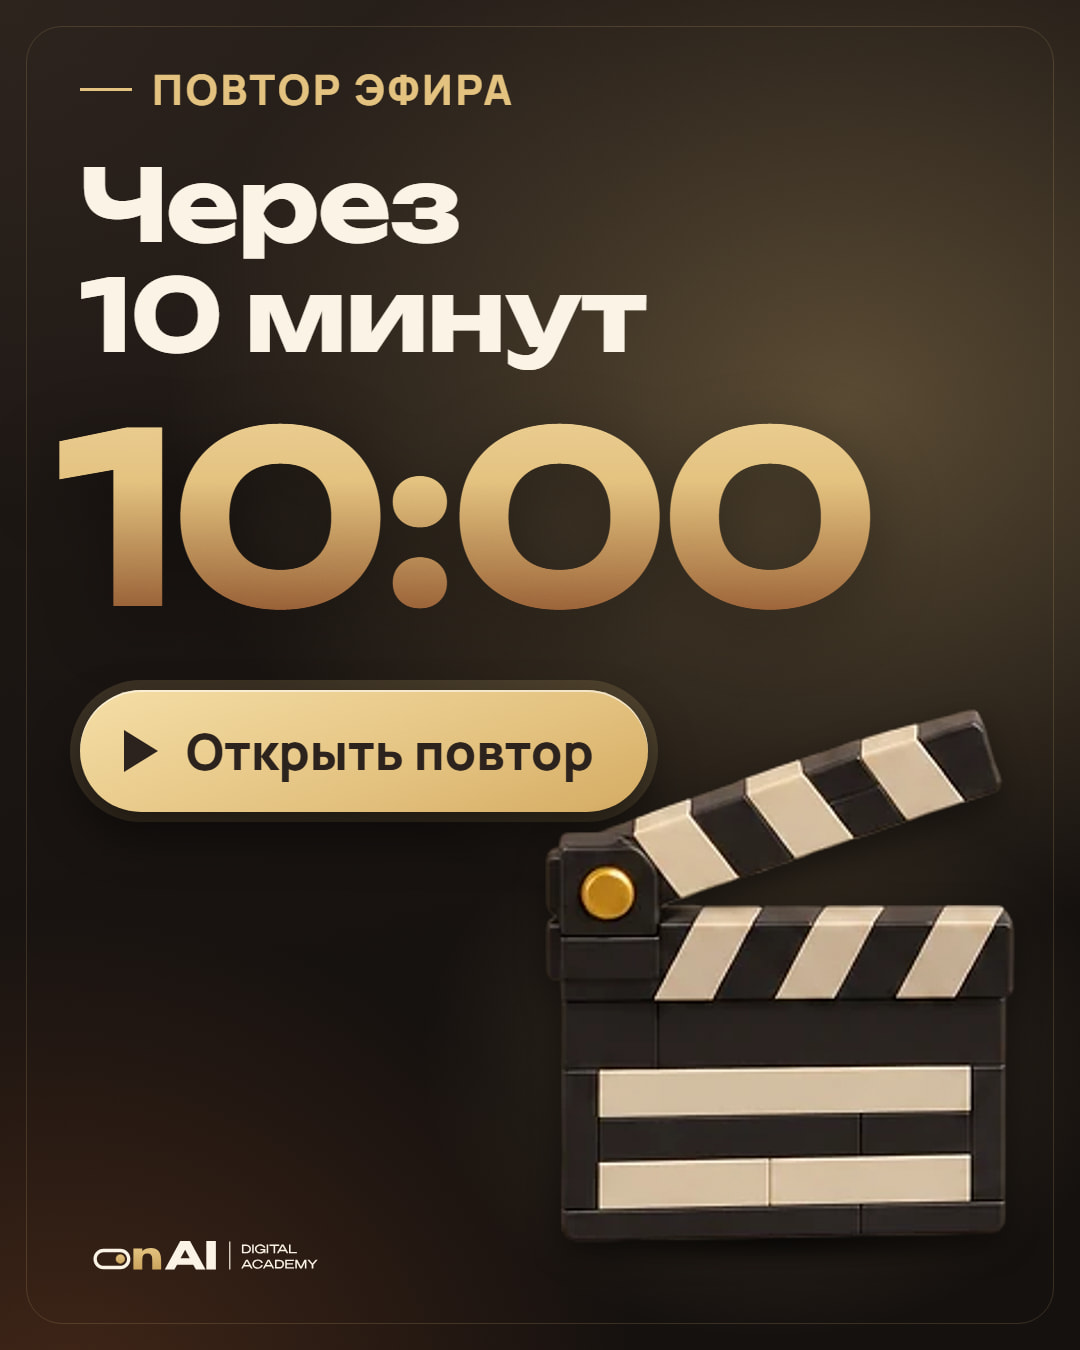
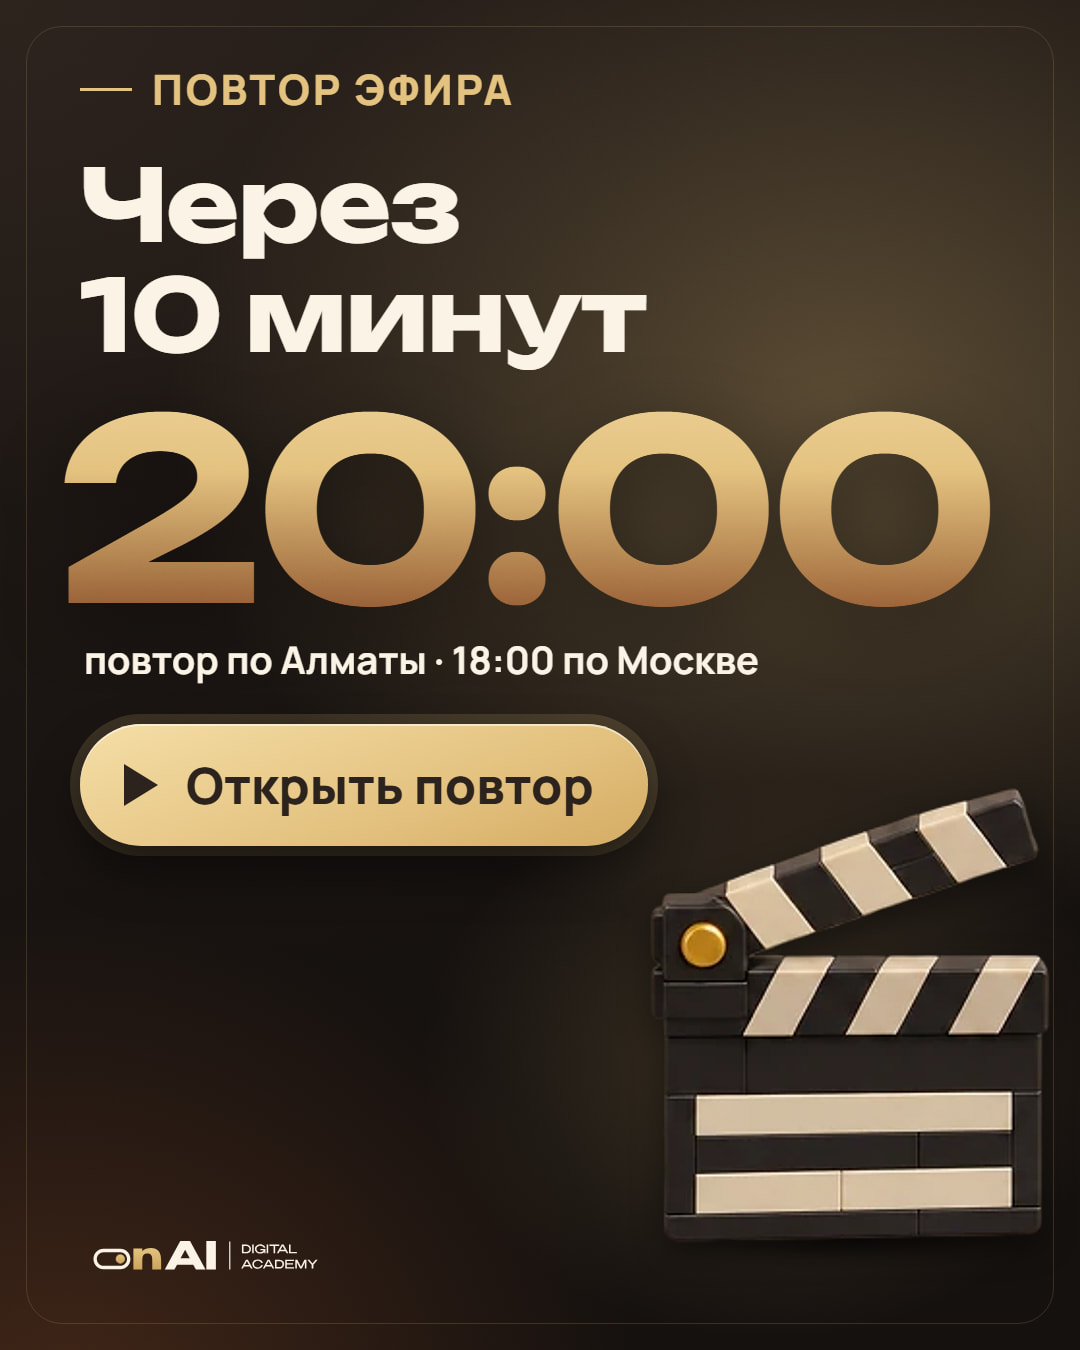
Карточки рассылки: vaib «Напиши менеджеру ВАЙБ», next-1950 «20:00», две карточки для WhatsApp, новые фото Александра
vaib: без имени менеджера, крупно ВАЙБ. next-1950: крупное 20:00 и «повтор по Алматы · 18:00 по Москве». Новые next-1030-wa (презентация и билет «Повтор 20:00») и next-2145-wa (развилка двух дорог под часами 23:59). live-now: фоном фото со сцены с микрофоном, затемнено к низу и слева. offer и next-2145: новое фото alex-2 по грудь, лаймовый логотип на футболке приглушён до золота (prep-alex.mjs). Лист превью обновлён, 22 карточки. На сервер не выложено.

Changed region(s): [[0.0306, 0.28, 0.9778, 0.9022]]

diff --git a/docs/tg-media/card.html b/docs/tg-media/card.html
@@ -82,6 +82,16 @@ html,body{width:1080px;height:1350px}
   box-shadow:0 0 0 13px rgba(229,71,44,.22),0 0 0 28px rgba(229,71,44,.09),0 0 60px rgba(255,98,64,.6)}
 .light .live .onair,.light.live .onair{background:linear-gradient(145deg,#2d231d,#17110e);border-color:rgba(227,192,123,.7);box-shadow:0 26px 54px rgba(60,35,15,.4)}
 
+/* live-now: фото со сцены на всю карточку */
+.stage .photo{position:absolute;left:-440px;top:0;width:2025px;height:1350px;background:url("obj/alex-stage-mic.webp") 0 0/100% 100% no-repeat;filter:sepia(.28) saturate(.92) contrast(1.06)}
+.stage .shade{position:absolute;inset:0;background:
+  linear-gradient(90deg,rgba(20,16,14,.97) 0%,rgba(20,16,14,.88) 44%,rgba(20,16,14,.3) 62%,transparent 82%),
+  linear-gradient(0deg,#14100E 0%,rgba(20,16,14,.9) 13%,rgba(20,16,14,0) 44%),
+  linear-gradient(180deg,rgba(20,16,14,.6) 0%,transparent 24%),
+  radial-gradient(720px 620px at 76% 24%,rgba(227,192,123,.14),transparent 70%)}
+.live .onair.sm{height:128px;gap:24px;padding:0 44px 0 36px;font-size:76px}
+.live .onair.sm .dot{width:52px;height:52px;box-shadow:0 0 0 10px rgba(229,71,44,.22),0 0 0 22px rgba(229,71,44,.09),0 0 48px rgba(255,98,64,.6)}
+
 /* offer */
 .offer .badge{position:absolute;left:80px;top:150px;width:360px;height:156px;border-radius:40px;transform:rotate(-4deg);display:flex;align-items:center;justify-content:center;
   background:linear-gradient(160deg,#F5DDA2 0%,#E3C07B 55%,#C9A05A 100%);box-shadow:0 26px 50px rgba(0,0,0,.5),inset 0 2px 0 rgba(255,255,255,.55);
@@ -94,7 +104,7 @@ html,body{width:1080px;height:1350px}
 .offer .until{position:absolute;left:80px;top:648px;display:inline-flex;align-items:center;gap:18px;height:92px;padding:0 42px;border-radius:999px;
   border:2px solid var(--gold);background:linear-gradient(135deg,rgba(227,192,123,.22),rgba(227,192,123,.06));font-weight:800;font-size:40px;color:var(--cream);box-shadow:0 14px 40px rgba(0,0,0,.35)}
 .offer .until b{display:block;width:16px;height:16px;border-radius:50%;background:var(--gold);box-shadow:0 0 0 7px rgba(227,192,123,.2)}
-.offer .gift{left:80px;top:776px;width:420px;padding:26px 28px 26px;border-radius:30px}
+.offer .gift{left:80px;top:776px;width:392px;padding:26px 28px 26px;border-radius:30px}
 .offer .gift .k{font-weight:800;font-size:28px;letter-spacing:.14em;color:var(--gold)}
 .offer .gift .t{margin-top:10px;font-weight:700;font-size:32px;line-height:1.22;color:var(--cream);white-space:nowrap}
 .offer .gift .k+.t{margin-top:14px}
@@ -154,6 +164,19 @@ html,body{width:1080px;height:1350px}
   box-shadow:0 24px 46px rgba(0,0,0,.5),0 0 0 10px rgba(227,192,123,.16),inset 0 2px 0 rgba(255,255,255,.55)}
 .btn .play{display:block;width:0;height:0;border-left:34px solid #2A211C;border-top:21px solid transparent;border-bottom:21px solid transparent}
 
+/* малый билет (WhatsApp 10:30) */
+.ticket.sm{width:620px;height:250px;transform:rotate(4deg)}
+.ticket.sm .tk-time{left:38px;top:40px;font-size:88px}
+.ticket.sm .tk-sub{left:42px;bottom:24px;font-size:30px}
+.ticket.sm .tk-cut{left:430px;top:26px;bottom:26px}
+.ticket.sm .tk-stamp{left:446px;top:34px;padding:6px 14px;border-width:5px;font-size:27px}
+
+/* next-2145-wa: развилка двух дорог под часами 23:59 */
+.fork{position:absolute;left:0;top:0;pointer-events:none}
+.choice{position:absolute;width:324px;height:96px;display:flex;align-items:center;justify-content:center;border-radius:999px;font-family:'Unbounded',sans-serif;font-weight:700;font-size:48px;white-space:nowrap}
+.choice.yes{background:linear-gradient(160deg,#F5DDA2 0%,#E3C07B 60%,#D3A85F 100%);color:#2A211C;box-shadow:0 20px 40px rgba(0,0,0,.5),inset 0 2px 0 rgba(255,255,255,.55)}
+.choice.no{background:rgba(251,243,228,.08);color:var(--cream);border:2px solid rgba(227,192,123,.6);box-shadow:0 20px 40px rgba(0,0,0,.4)}
+
 /* doubts: вопрос -> ответ */
 .doubts .qa{position:absolute;left:80px;width:920px;height:148px;display:flex;align-items:center}
 .doubts .q{position:relative;flex:none;width:400px;height:100%;display:flex;align-items:center;padding:0 30px;border-radius:34px;font-weight:700;font-size:44px;color:#2A211C}
@@ -212,12 +235,11 @@ const cards = {
       <div class="glass row" style="top:944px"><div class="ic wide"><img src="${L}lg-s23-noface.webp" style="height:150px;width:auto" alt=""></div><div class="t">4 формата<small>два из них без лица в кадре</small></div></div>${LOGO}`
   },
   "live-now": {
-    cls: "live", gx: "72%", gy: "38%",
-    html: `${lab("МЫ В ЭФИРЕ")}${head("Начали", 128)}
-      ${glow(430, 420, 700, 800, .55)}
-      <div class="light-floor" style="left:520px;top:400px;width:560px;height:560px;background:radial-gradient(closest-side,rgba(229,71,44,.16),transparent);opacity:1"></div>
-      ${stand("P:alex-cacao.webp", { cx: 800, foot: 1372, vw: 620, noShadow: true })}
-      <div class="glass onair" data-fit style="top:340px"><span class="dot"></span>LIVE</div>${LOGO}`
+    // 20:00: фото со сцены с микрофоном (страница услуг /saint), затемнено к низу и слева
+    cls: "live stage", gx: "72%", gy: "38%",
+    html: `<div class="photo"></div><div class="shade"></div>
+      ${lab("МЫ В ЭФИРЕ")}${head("Начали", 96)}
+      <div class="glass onair sm" data-fit style="top:312px"><span class="dot"></span>LIVE</div>${LOGO}`
   },
   // с 08.10.2026 карточки практик 2 и 3 не нужны: на эфире видеоурок про весь путь рилса из семи шагов
   "topic-p1": {
@@ -244,7 +266,7 @@ const cards = {
       <div class="inst">или от 6&nbsp;250&nbsp;₸ в месяц,<br>рассрочка до 24&nbsp;месяцев</div>
       <div class="until"><b></b>до 23:59 по Алматы</div>
       ${glow(430, 560, 700, 800, .5)}
-      ${stand("P:alex-cacao.webp", { cx: 810, foot: 1372, vw: 520, noShadow: true })}
+      ${stand("X:alex-2-gold.webp", { cx: 835, foot: 1680, vw: 731, noShadow: true })}
       <div class="glass gift"><div class="k">В ПОДАРОК</div><div class="t">Модуль 3<br>«AI-креатор»</div><div class="t">6&nbsp;месяцев доступа<br>вместо&nbsp;3</div><div class="t">Модуль по рекламе<br>через Claude</div></div>${LOGO}`
   },
 
@@ -294,10 +316,10 @@ const cards = {
   },
   "vaib": {
     cls: "train light", gx: "84%", gy: "10%", light: 1,
-    html: `${lab("БОНУСЫ ЭФИРА")}${head("Напиши Аяне", 92)}
-      <div class="word big" style="left:62px;top:292px;font-size:272px">ВАЙБ</div>
+    html: `${lab("БОНУСЫ ЭФИРА")}${head("Напиши<br>менеджеру", 80)}
+      <div class="word big" style="left:62px;top:376px;font-size:252px">ВАЙБ</div>
       ${glow(220, 620, 860, 640, .6)}
-      ${stand("L:lg-s44-codeword.webp", { cx: 570, foot: 1210, vw: 680 })}${LOGO}`
+      ${stand("L:lg-s44-codeword.webp", { cx: 570, foot: 1210, vw: 590 })}${LOGO}`
   },
   "installment": {
     cls: "train inst-card light", gx: "84%", gy: "10%", light: 1,
@@ -338,15 +360,47 @@ const cards = {
     html: `${lab("ДО 23:59")}${head("Решаешь ты", 104)}
       <div class="big" style="left:50px;top:318px;font-size:268px">−40%</div>
       ${glow(300, 540, 800, 820, .55)}
-      ${stand("P:alex-cacao.webp", { cx: 800, foot: 1420, vw: 560, noShadow: true })}${LOGO}`
+      ${stand("X:alex-2-gold.webp", { cx: 560, foot: 1665, vw: 748, noShadow: true })}${LOGO}`
   },
   "next-1950": {
     cls: "topic", gx: "78%", gy: "30%",
     html: `${lab("ПОВТОР ЭФИРА")}${head("Через<br>10 минут", 100)}
-      <div class="big" style="left:56px;top:398px;font-size:238px">10:00</div>
-      <div class="btn"><span class="play"></span>Открыть повтор</div>
+      <div class="big" style="left:56px;top:384px;font-size:250px">20:00</div>
+      <div class="clock" style="left:84px;top:640px;font-size:38px;letter-spacing:0;font-family:Manrope,sans-serif;font-weight:700;color:var(--cream)">повтор по Алматы · 18:00 по Москве</div>
+      <div class="btn" style="top:724px"><span class="play"></span>Открыть повтор</div>
       ${glow(420, 780, 700, 560, .5)}
-      ${stand("X:lg-i-clapper-x3.png", { cx: 780, foot: 1242, vw: 470 })}${LOGO}`
+      ${stand("X:lg-i-clapper-x3.png", { cx: 850, foot: 1242, vw: 400 })}${LOGO}`
+  },
+  "next-1030-wa": {
+    cls: "topic", gx: "70%", gy: "36%",
+    html: `${lab("ПРЕЗЕНТАЦИЯ И ПОВТОР")}${head("Ещё один<br>шанс сегодня", 90)}
+      ${glow(60, 460, 960, 800, .55)}
+      <div class="deck" style="left:60px;top:450px;width:720px"><img src="${X3}deck-vibe-production-cover.jpg" alt=""></div>
+      <div class="ticket sm" style="left:390px;top:900px">
+        <div class="tk-time">20:00</div>
+        <div class="tk-sub">по Алматы</div>
+        <div class="tk-cut"></div>
+        <div class="tk-stamp">ПОВТОР</div>
+      </div>${LOGO}`
+  },
+  "next-2145-wa": {
+    cls: "topic", gx: "50%", gy: "40%",
+    html: `${lab("ДО 23:59")}${head("Последний<br>шанс", 104)}
+      <div class="big" style="left:60px;top:398px;font-size:226px">23:59</div>
+      ${glow(100, 640, 880, 640, .45)}
+      <svg class="fork" viewBox="0 0 1080 1350" width="1080" height="1350">
+        <defs><filter id="rs"><feDropShadow dx="0" dy="14" stdDeviation="14" flood-color="#000" flood-opacity=".55"/></filter></defs>
+        <g fill="none" stroke-linecap="round" filter="url(#rs)">
+          <path d="M540 1190 V1010 C540 880 300 900 288 770" stroke="#E3C07B" stroke-width="112"/>
+          <path d="M540 1190 V1010 C540 880 780 900 792 770" stroke="#E3C07B" stroke-width="112"/>
+          <path d="M540 1190 V1010 C540 880 300 900 288 770" stroke="#2B2119" stroke-width="100"/>
+          <path d="M540 1190 V1010 C540 880 780 900 792 770" stroke="#2B2119" stroke-width="100"/>
+          <path d="M540 1190 V1010 C540 880 300 900 288 770" stroke="#F0D49A" stroke-width="6" stroke-dasharray="20 18"/>
+          <path d="M540 1190 V1010 C540 880 780 900 792 770" stroke="#F0D49A" stroke-width="6" stroke-dasharray="20 18"/>
+        </g>
+      </svg>
+      <div class="choice no" style="left:128px;top:640px">Нет</div>
+      <div class="choice yes" style="left:628px;top:640px">Да</div>${LOGO}`
   },
 };
 

diff --git a/docs/tg-media/bbox.js b/docs/tg-media/bbox.js
@@ -1,2 +1,2 @@
 // Сгенерировано prep-bbox.mjs, руками не править.
-window.BB = {"L:lg-ch1-clapper.webp":[900,797,0.0167,0.0188,0.9844,0.9824],"L:lg-ch2-studio.webp":[900,782,0,0.0179,1,0.9834],"L:lg-ch3-leads.webp":[900,842,0.0156,0.0178,0.9844,0.9834],"L:lg-i-botchat.webp":[191,302,0.0733,0.0464,0.9267,0.9536],"L:lg-i-box.webp":[313,256,0.0447,0.0547,0.9553,0.9453],"L:lg-i-calendar.webp":[265,260,0.0528,0.0538,0.9472,0.9462],"L:lg-i-calfilm.webp":[266,284,0.0526,0.0493,0.9474,0.9507],"L:lg-i-camera.webp":[245,284,0.0571,0.0493,0.9429,0.9507],"L:lg-i-cards.webp":[273,244,0.0513,0.0574,0.9487,0.9426],"L:lg-i-chatkey.webp":[238,280,0.0588,0.05,0.9412,0.95],"L:lg-i-clapper.webp":[234,262,0.0598,0.0534,0.9402,0.9466],"L:lg-i-hook.webp":[164,276,0.0854,0.0507,0.9146,0.9493],"L:lg-i-hourglass.webp":[176,271,0.0795,0.0517,0.9205,0.9483],"L:lg-i-laptopcoins.webp":[305,245,0.0459,0.0571,0.9541,0.9429],"L:lg-i-laptopfilm.webp":[319,251,0.0439,0.0558,0.9561,0.9442],"L:lg-i-magnifier.webp":[294,275,0.0476,0.0509,0.9524,0.9491],"L:lg-i-phonearrow.webp":[196,304,0.0714,0.0461,0.9286,0.9539],"L:lg-i-phones.webp":[276,210,0.0507,0.0667,0.9493,0.9333],"L:lg-i-robot.webp":[240,299,0.0583,0.0468,0.9417,0.9532],"L:lg-i-rocket.webp":[202,303,0.0693,0.0462,0.9307,0.9538],"L:lg-i-stall.webp":[268,296,0.0522,0.0473,0.9478,0.9527],"L:lg-s02-creator.webp":[804,900,0.0174,0.0156,0.9838,0.9856],"L:lg-s09-coins.webp":[900,704,0.0167,0.0213,0.9844,0.9801],"L:lg-s13-editor.webp":[900,876,0.0167,0.0171,0.9856,0.984],"L:lg-s16-phones.webp":[900,208,0.0133,0.0673,0.9867,0.9375],"L:lg-s21-robot.webp":[844,900,0.0166,0.0156,1,0.9856],"L:lg-s23-noface.webp":[900,883,0.0167,0.017,0.9844,0.9841],"L:lg-s32-hand.webp":[624,900,0.0224,0.0156,0.9792,0.9856],"L:lg-s38-piggy.webp":[900,810,0.0178,0.0198,0.9833,0.9827],"L:lg-s39-calendar.webp":[900,810,0.0156,0.0173,0.9856,0.9827],"L:lg-s41-deadline.webp":[900,900,0.0167,0.0167,0.9833,0.9844],"L:lg-s43-leaving.webp":[900,858,0.0167,0.0186,0.9844,0.9837],"L:lg-s44-codeword.webp":[900,845,0.0156,0.0166,0.9844,0.9834],"L:lg-s49-factory.webp":[900,514,0.0011,0.0175,1,0.9844],"L:lg-s50-plan.webp":[900,876,0.0156,0.0171,0.9867,0.984],"L:lg-s59-desk.webp":[900,539,0.0111,0.0167,0.99,0.9833],"X:lg-i-botchat-x3.png":[573,906,0.0733,0.0453,0.9284,0.9547],"X:lg-i-box-x3.png":[939,768,0.0447,0.0534,0.9553,0.9453],"X:lg-i-camera-x3.png":[735,852,0.0558,0.0516,0.9442,0.9519],"X:lg-i-cards-x3.png":[819,732,0.0513,0.0587,0.9512,0.944],"X:lg-i-clapper-x3.png":[702,786,0.0598,0.0534,0.9416,0.9466],"X:lg-i-hourglass-x3.png":[528,813,0.0777,0.0529,0.9223,0.9496],"X:lg-i-phones-x3.png":[828,630,0.0495,0.0667,0.9517,0.9349],"X:lg-i-robot-x3.png":[720,897,0.0583,0.0468,0.9431,0.9554],"X:lg-s41-alarm-x2.png":[654,808,0,0,1,1],"X:lg-s50-plan.png":[900,876,0.0156,0.0171,0.9867,0.984],"P:alex-cacao.webp":[900,1205,0.0967,0.0498,0.9156,1]};
+window.BB = {"L:lg-ch1-clapper.webp":[900,797,0.0167,0.0188,0.9844,0.9824],"L:lg-ch2-studio.webp":[900,782,0,0.0179,1,0.9834],"L:lg-ch3-leads.webp":[900,842,0.0156,0.0178,0.9844,0.9834],"L:lg-i-botchat.webp":[191,302,0.0733,0.0464,0.9267,0.9536],"L:lg-i-box.webp":[313,256,0.0447,0.0547,0.9553,0.9453],"L:lg-i-calendar.webp":[265,260,0.0528,0.0538,0.9472,0.9462],"L:lg-i-calfilm.webp":[266,284,0.0526,0.0493,0.9474,0.9507],"L:lg-i-camera.webp":[245,284,0.0571,0.0493,0.9429,0.9507],"L:lg-i-cards.webp":[273,244,0.0513,0.0574,0.9487,0.9426],"L:lg-i-chatkey.webp":[238,280,0.0588,0.05,0.9412,0.95],"L:lg-i-clapper.webp":[234,262,0.0598,0.0534,0.9402,0.9466],"L:lg-i-hook.webp":[164,276,0.0854,0.0507,0.9146,0.9493],"L:lg-i-hourglass.webp":[176,271,0.0795,0.0517,0.9205,0.9483],"L:lg-i-laptopcoins.webp":[305,245,0.0459,0.0571,0.9541,0.9429],"L:lg-i-laptopfilm.webp":[319,251,0.0439,0.0558,0.9561,0.9442],"L:lg-i-magnifier.webp":[294,275,0.0476,0.0509,0.9524,0.9491],"L:lg-i-phonearrow.webp":[196,304,0.0714,0.0461,0.9286,0.9539],"L:lg-i-phones.webp":[276,210,0.0507,0.0667,0.9493,0.9333],"L:lg-i-robot.webp":[240,299,0.0583,0.0468,0.9417,0.9532],"L:lg-i-rocket.webp":[202,303,0.0693,0.0462,0.9307,0.9538],"L:lg-i-stall.webp":[268,296,0.0522,0.0473,0.9478,0.9527],"L:lg-s02-creator.webp":[804,900,0.0174,0.0156,0.9838,0.9856],"L:lg-s09-coins.webp":[900,704,0.0167,0.0213,0.9844,0.9801],"L:lg-s13-editor.webp":[900,876,0.0167,0.0171,0.9856,0.984],"L:lg-s16-phones.webp":[900,208,0.0133,0.0673,0.9867,0.9375],"L:lg-s21-robot.webp":[844,900,0.0166,0.0156,1,0.9856],"L:lg-s23-noface.webp":[900,883,0.0167,0.017,0.9844,0.9841],"L:lg-s32-hand.webp":[624,900,0.0224,0.0156,0.9792,0.9856],"L:lg-s38-piggy.webp":[900,810,0.0178,0.0198,0.9833,0.9827],"L:lg-s39-calendar.webp":[900,810,0.0156,0.0173,0.9856,0.9827],"L:lg-s41-deadline.webp":[900,900,0.0167,0.0167,0.9833,0.9844],"L:lg-s43-leaving.webp":[900,858,0.0167,0.0186,0.9844,0.9837],"L:lg-s44-codeword.webp":[900,845,0.0156,0.0166,0.9844,0.9834],"L:lg-s49-factory.webp":[900,514,0.0011,0.0175,1,0.9844],"L:lg-s50-plan.webp":[900,876,0.0156,0.0171,0.9867,0.984],"L:lg-s59-desk.webp":[900,539,0.0111,0.0167,0.99,0.9833],"X:alex-2-gold.webp":[1080,1350,0.0963,0.0585,0.9269,1],"X:alex-2.png":[1080,1350,0.0963,0.0585,0.9269,1],"X:alex-stage-mic.webp":[1536,1024,0,0,1,1],"X:lg-i-botchat-x3.png":[573,906,0.0733,0.0453,0.9284,0.9547],"X:lg-i-box-x3.png":[939,768,0.0447,0.0534,0.9553,0.9453],"X:lg-i-camera-x3.png":[735,852,0.0558,0.0516,0.9442,0.9519],"X:lg-i-cards-x3.png":[819,732,0.0513,0.0587,0.9512,0.944],"X:lg-i-clapper-x3.png":[702,786,0.0598,0.0534,0.9416,0.9466],"X:lg-i-hourglass-x3.png":[528,813,0.0777,0.0529,0.9223,0.9496],"X:lg-i-phones-x3.png":[828,630,0.0495,0.0667,0.9517,0.9349],"X:lg-i-robot-x3.png":[720,897,0.0583,0.0468,0.9431,0.9554],"X:lg-s41-alarm-x2.png":[654,808,0,0,1,1],"X:lg-s50-plan.png":[900,876,0.0156,0.0171,0.9867,0.984],"P:alex-cacao.webp":[900,1205,0.0967,0.0498,0.9156,1]};
